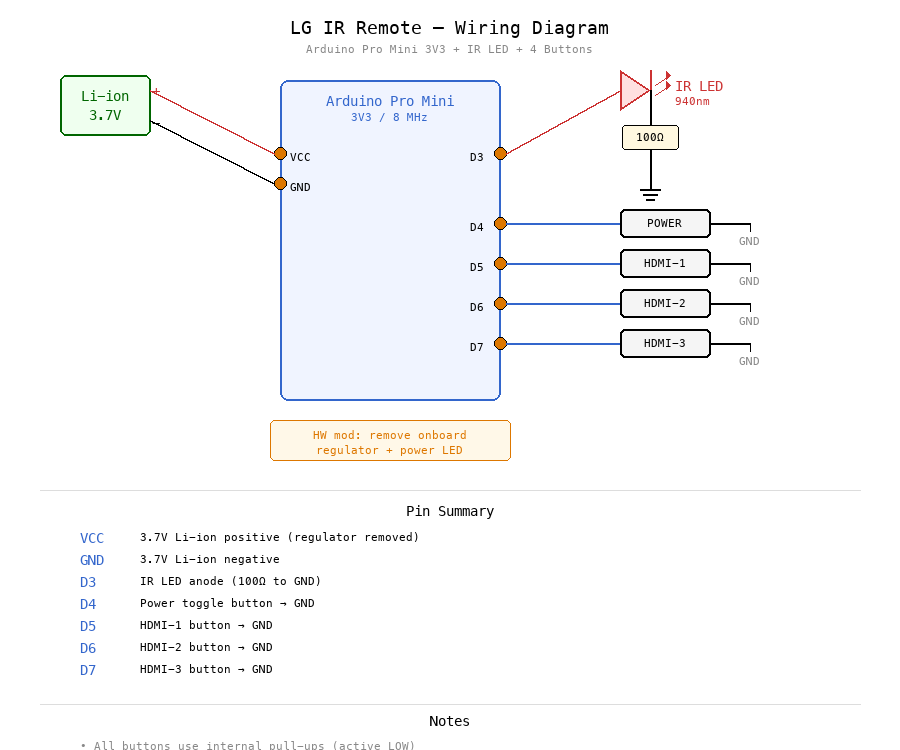
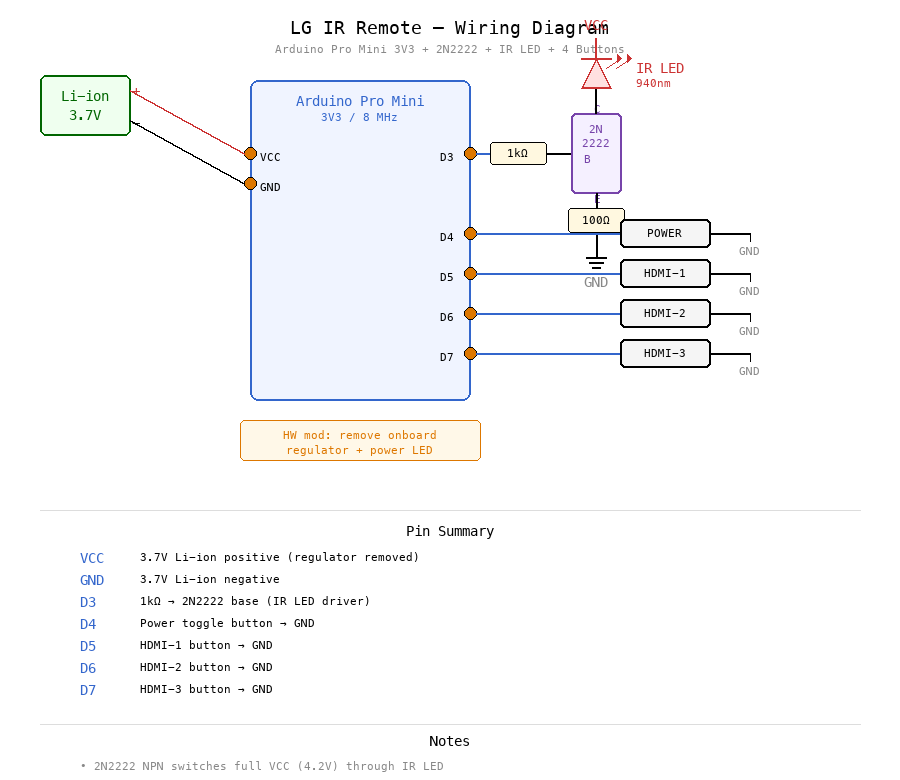
Add 2N2222 NPN transistor driver for IR LED
GPIO at 3.3V delivers insufficient current to drive the IR LED.
2N2222 switches the full battery voltage (~4.2V) through the LED,
giving ~28 mA vs the ~10-15 mA from the GPIO pin directly.

diff --git a/README.md b/README.md
@@ -7,7 +7,9 @@ A minimal, battery-powered IR remote for LG Smart TVs. Sends NEC-protocol comman
 | Component | Specification |
 |---|---|
 | MCU | Arduino Pro Mini 3V3 (ATmega328P, 8 MHz) |
-| IR LED | 940 nm, 100 Ohm series resistor to GND |
+| IR LED | 940 nm, driven via 2N2222 NPN transistor |
+| Base resistor | 1 kOhm (D3 to 2N2222 base) |
+| Emitter resistor | 100 Ohm (2N2222 emitter to GND) |
 | Buttons | 4x momentary push buttons (active LOW, internal pull-ups) |
 | Power | 3.7 V Li-ion cell connected directly to VCC (regulator bypassed) |
 
@@ -17,7 +19,7 @@ A minimal, battery-powered IR remote for LG Smart TVs. Sends NEC-protocol comman
 |---|---|
 | VCC | 3.7 V Li-ion (+) (regulator bypassed) |
 | GND | 3.7 V Li-ion (-) |
-| D3 | IR LED anode (cathode through 100 Ohm to GND) |
+| D3 | 1 kOhm to 2N2222 base (transistor drives IR LED) |
 | D4 | Power button to GND |
 | D5 | HDMI-1 button to GND |
 | D6 | HDMI-2 button to GND |
@@ -34,7 +36,9 @@ Arduino Pro Mini 3V3
   3.7V Li-ion (+) ──> VCC  (regulator removed)
   3.7V Li-ion (-) ──> GND
 
-  D3 ───>|──── 100Ω ──── GND    (IR LED, 940 nm)
+  D3 ── 1kΩ ── 2N2222 base
+               collector ── IR LED cathode ── (anode to VCC)
+               emitter ── 100Ω ── GND
 
   D4 ──┤ POWER  ├── GND
   D5 ──┤ HDMI-1 ├── GND

diff --git a/CLAUDE.md b/CLAUDE.md
@@ -9,7 +9,7 @@ Build an IR remote for an LG Smart TV using an Arduino Pro-Mini 3V3 board powere
 
 ## Hardware
 - Arduino Pro-Mini 3V3 (ATmega328P, 8 MHz)
-- IR LED (940 nm) with 100Ω series resistor to GND
+- IR LED (940 nm) driven via 2N2222 NPN transistor (1 kΩ base resistor, 100Ω emitter resistor)
 - 4 momentary push buttons, wired between pin and GND (internal pull-ups, active LOW)
   - Power toggle
   - HDMI-1
@@ -21,7 +21,7 @@ Build an IR remote for an LG Smart TV using an Arduino Pro-Mini 3V3 board powere
 ## Pin assignments
 | Pin | Function |
 |-----|----------|
-| D3  | IR LED anode (OC2B — Timer2 PWM for 38 kHz carrier) |
+| D3  | 2N2222 base via 1 kΩ (OC2B — Timer2 PWM for 38 kHz carrier) |
 | D4  | Power toggle button → GND |
 | D5  | HDMI-1 button → GND |
 | D6  | HDMI-2 button → GND |
